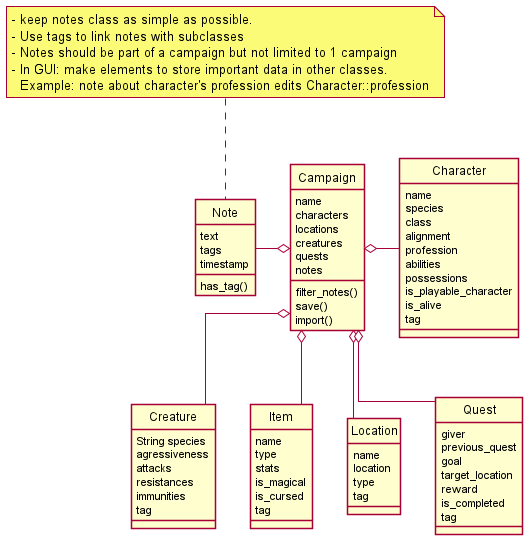
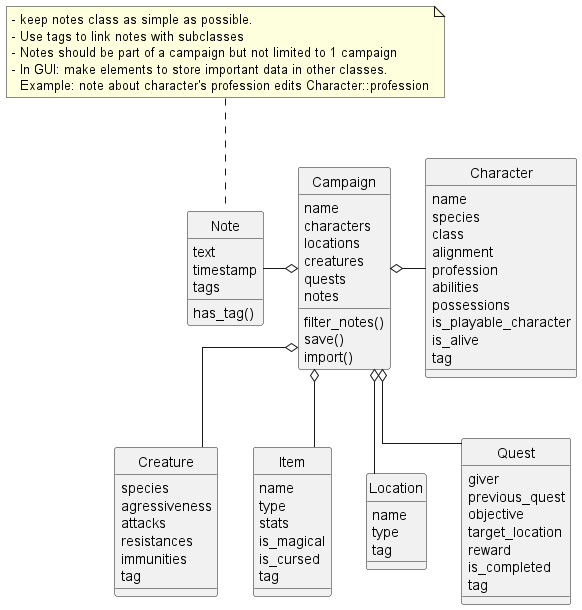
[impl] extend models subclasses with edit functions

diff --git a/backend/models.py b/backend/models.py
@@ -75,6 +75,39 @@ class Character:
         self.is_alive = is_alive
         self.tag = {'type': type(self), 'name': self.name}
 
+    def edit_name(self, name):
+        self.name = name
+
+    def edit_species(self, species):
+        self.species = species
+
+    def edit_class(self, c_class):
+        self.c_class = c_class
+
+    def edit_alignment(self, alignment):
+        self.alignment = alignment
+
+    def edit_profession(self, profession):
+        self.profession = profession
+
+    def add_ability(self, ability):
+        self.abilities.append(ability)
+
+    def remove_ability(self, ability):
+        self.abilities.remove(ability)
+
+    def add_possession(self, possession):
+        self.possessions.append(possession)
+
+    def remove_possession(self, possession):
+        self.possessions.remove(possession)
+
+    def set_is_playable(self, is_playable):
+        self.is_playable = is_playable
+
+    def set_is_alive(self, is_alive):
+        self.is_alive = is_alive
+
 
 class Creature:
     def __init__(self, species='', agressiveness='', attacks=[], resistances=[], immunities=[]):
@@ -85,32 +118,97 @@ class Creature:
         self.immunities = immunities
         self.tag = {'type': type(self), 'name': self.name}
 
+    def edit_species(self, species):
+        self.species = species
+
+    def edit_agressiveness(self, agressiveness):
+        self.agressiveness = agressiveness
+
+    def add_attack(self, attack):
+        self.attacks.append(attack)
+
+    def remove_attack(self, attack):
+        self.attacks.remove(attack)
+
+    def add_resistance(self, resistance):
+        self.resistances.append(resistance)
+
+    def remove_resistance(self, resistance):
+        self.resistances.remove(resistance)
+
+    def add_immunity(self, immunity):
+        self.immunities.append(immunity)
+
+    def remove_immunity(self, immunity):
+        self.immunities.remove(immunity)
+
 
 class Item:
-    def __init__(self, name='', type='', stats='', is_magical=False, is_cursed=False):
-        self.name = None
-        self.type = None
-        self.stats = None
-        self.is_magical = None
-        self.is_cursed = None
+    def __init__(self, name='', type='', stats=[], is_magical=False, is_cursed=False):
+        self.name = name
+        self.type = type
+        self.stats = stats
+        self.is_magical = is_magical
+        self.is_cursed = is_cursed
         self.tag = {'type': type(self), 'name': self.name}
+
+    def edit_name(self, name):
+        self.name = name
+
+    def edit_type(self, type):
+        self.type = type
+
+    def add_stat(self, stat):
+        self.stats.append(stat)
+
+    def remove_stat(self, stat):
+        self.stats.remove(stat)
+
+    def set_is_magical(self, is_magical):
+        self.is_magical = is_magical
+
+    def set_is_cursed(self, is_cursed):
+        self.is_cursed = is_cursed
 
 
 class Location:
-    def __init__(self, name='', location='', type=''):
+    def __init__(self, name='', type=''):
         self.name = name
-        self.location = location
         self.type = type
         self.tag = {'type': type(self), 'name': self.name}
 
+    def edit_name(self, name):
+        self.name = name
+
+    def edit_type(self, type):
+        self.type = type
+
 
 class Quest:
-    def __init__(self, giver='', previous_quest=None, goal='',
+    def __init__(self, giver='', previous_quest=None, objective='',
                  target_location='', reward='', is_completed=False):
         self.giver = giver
         self.previous_quest = previous_quest
-        self.goal = goal
+        self.objective = objective
         self.target_location = target_location
-        self.reward = None
-        self.is_completed = None
+        self.reward = reward
+        self.is_completed = is_completed
         self.tag = {'type': type(self), 'name': self.giver}
+
+    def edit_giver(self, giver):
+        self.giver = giver
+
+    def edit_previous_quest(self, previous_quest):
+        self.previous_quest = previous_quest
+
+    def edit_objective(self, objective):
+        self.objective = objective
+
+    def edit_target_location(self, target_location):
+        self.target_location = target_location
+
+    def edit_reward(self, reward):
+        self.reward = reward
+
+    def set_is_completed(self, is_completed):
+        self.is_completed = is_completed
